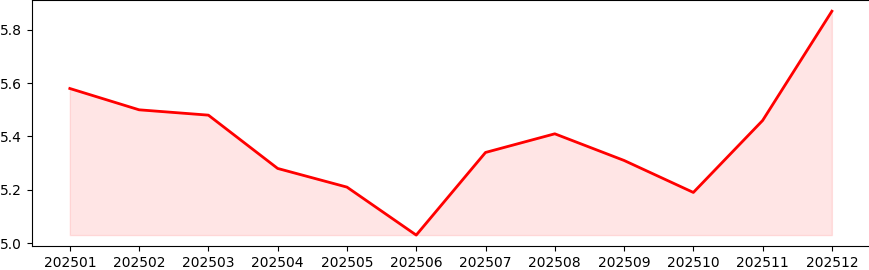
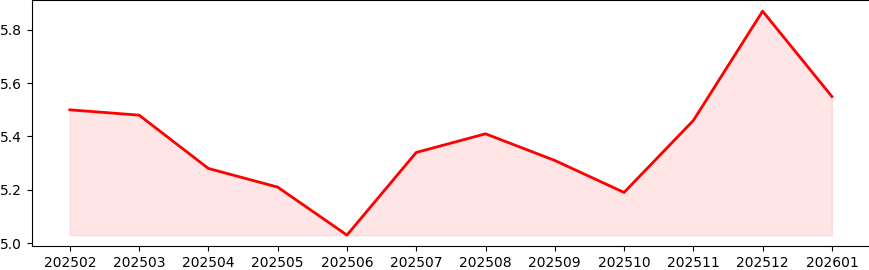
📈 README 및 금리 데이터 자동 업데이트 (2026-02-27)

diff --git a/README.md b/README.md
@@ -8,7 +8,6 @@
 
 |날짜|ITEM_NAME1|DATA_VALUE|
 |---|---|---|
-|202501|주택담보대출|4.27|
 |202502|주택담보대출|4.23|
 |202503|주택담보대출|4.17|
 |202504|주택담보대출|3.98|
@@ -20,6 +19,7 @@
 |202510|주택담보대출|3.98|
 |202511|주택담보대출|4.17|
 |202512|주택담보대출|4.23|
+|202601|주택담보대출|4.29|
 
 
 ## 💳 일반신용대출
@@ -30,7 +30,6 @@
 
 |날짜|ITEM_NAME1|DATA_VALUE|
 |---|---|---|
-|202501|일반신용대출 2)|5.58|
 |202502|일반신용대출 2)|5.5|
 |202503|일반신용대출 2)|5.48|
 |202504|일반신용대출 2)|5.28|
@@ -42,4 +41,5 @@
 |202510|일반신용대출 2)|5.19|
 |202511|일반신용대출 2)|5.46|
 |202512|일반신용대출 2)|5.87|
+|202601|일반신용대출 2)|5.55|
 
